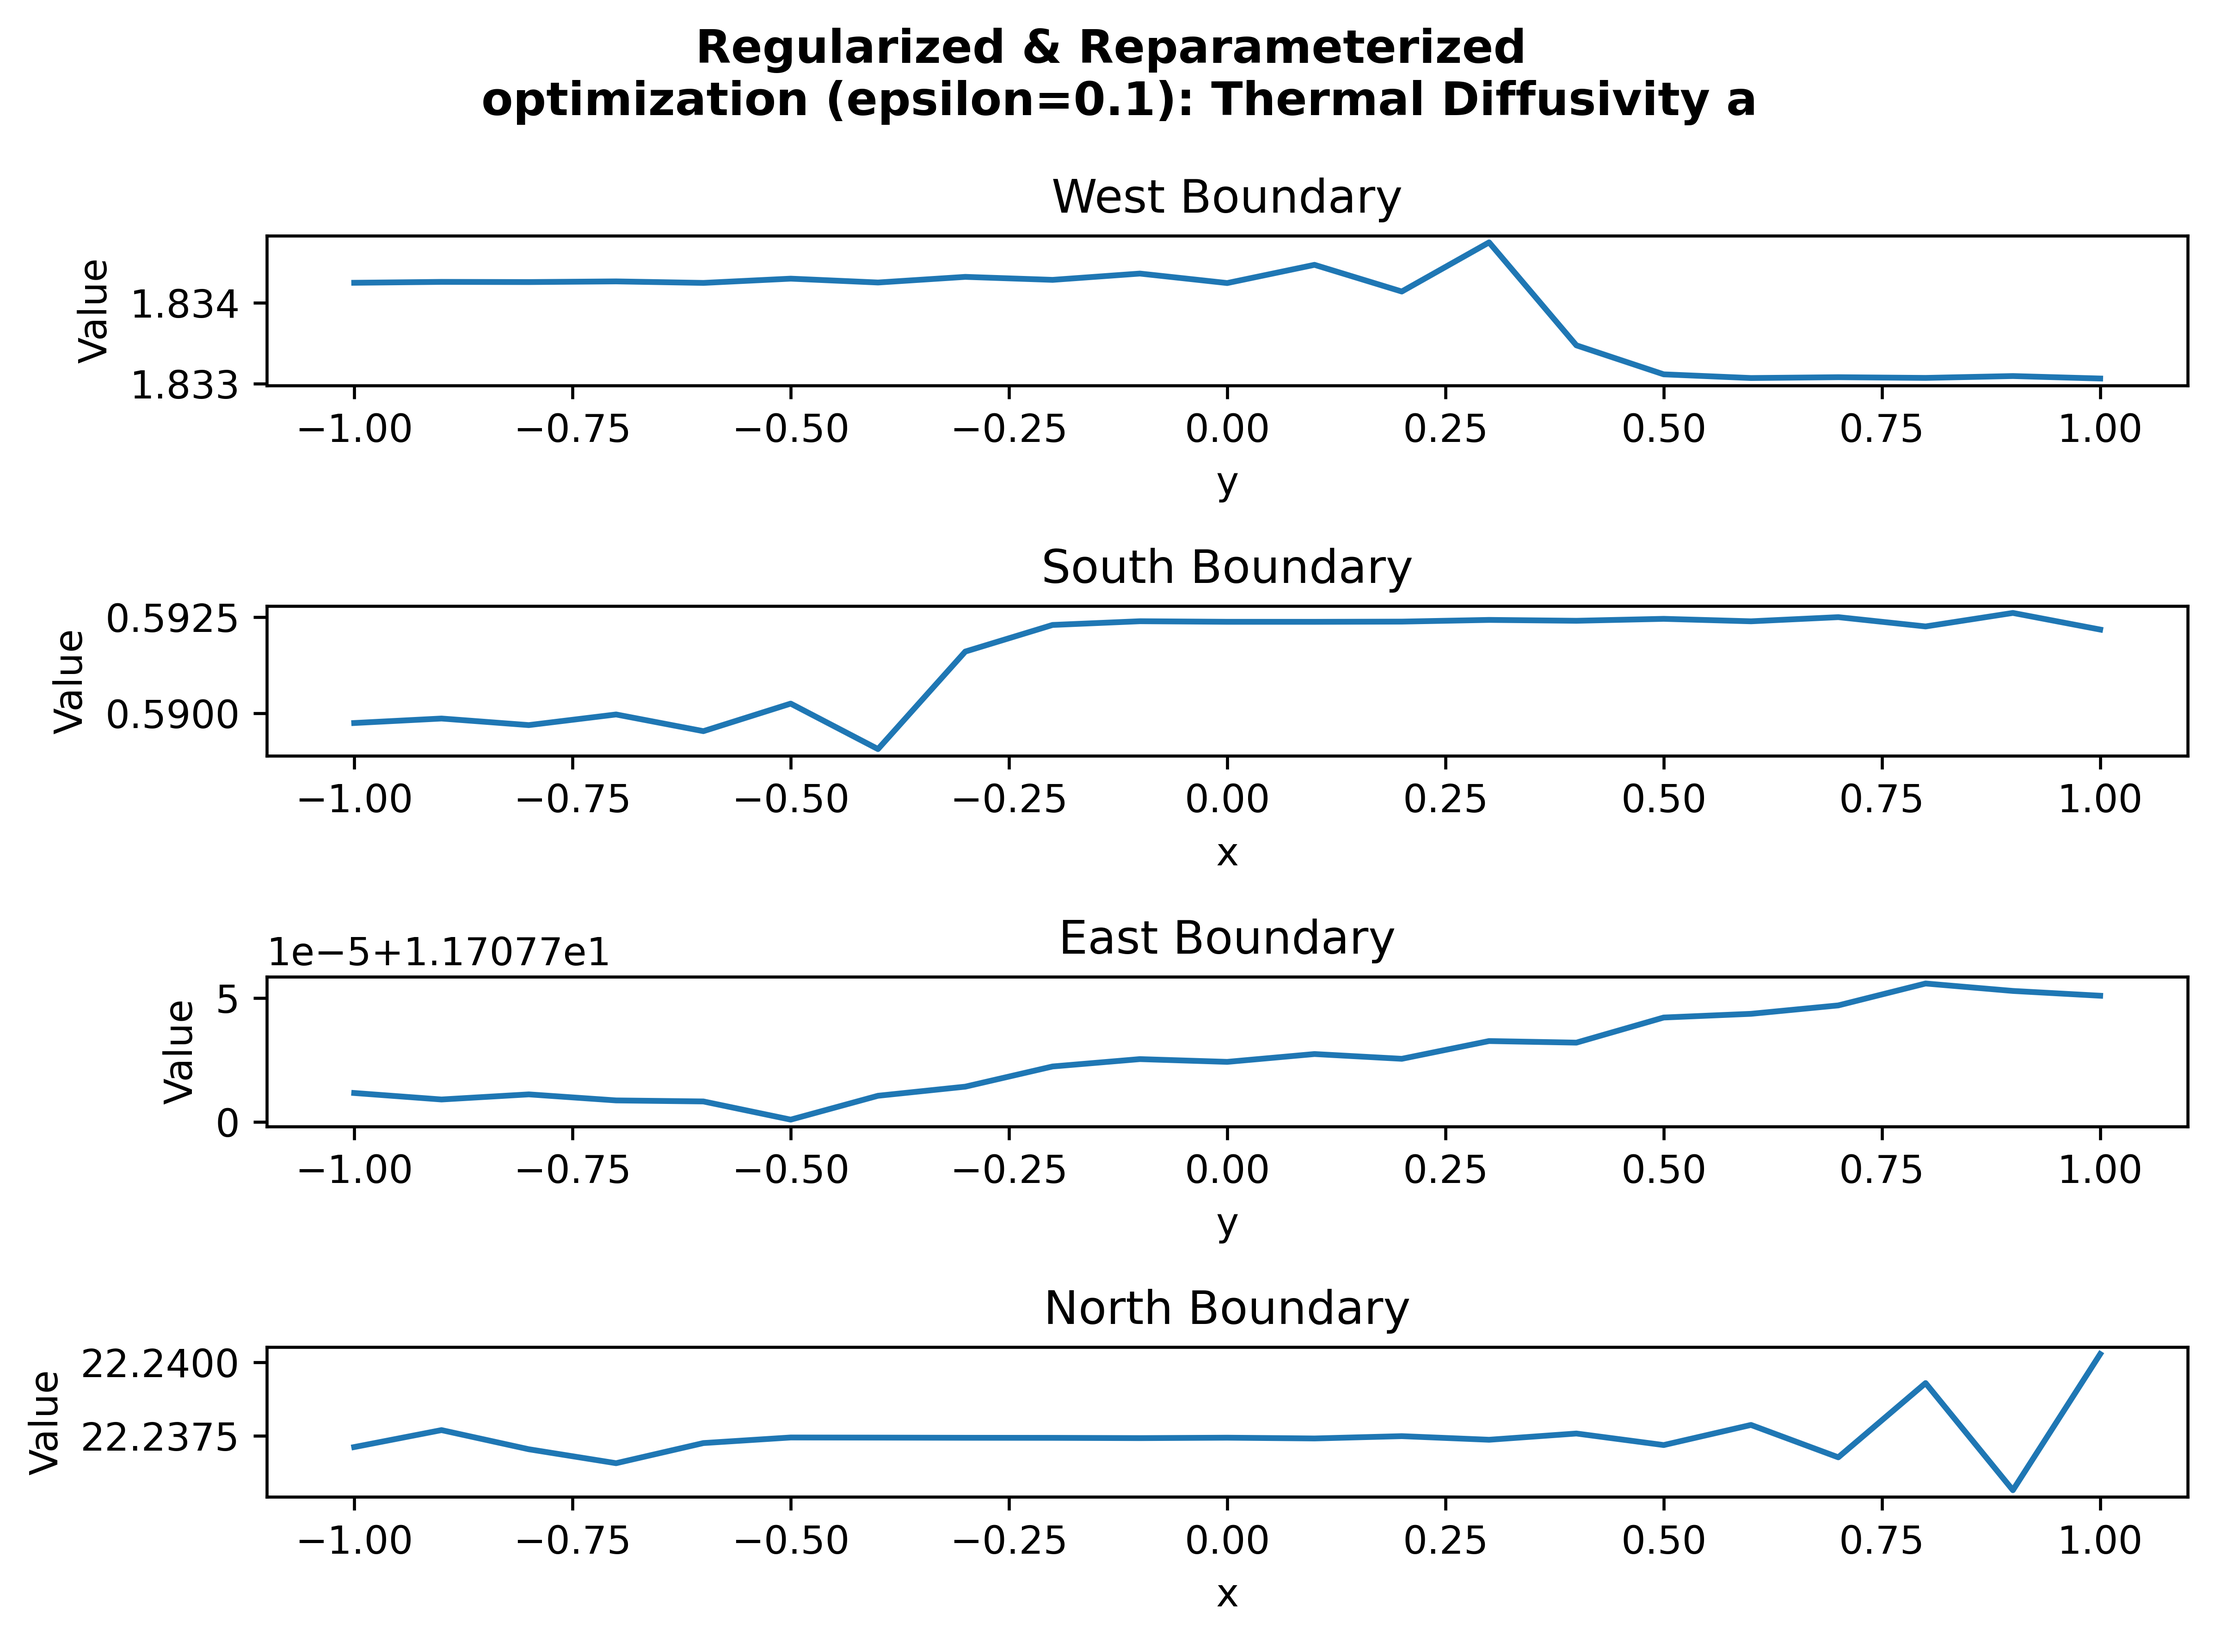
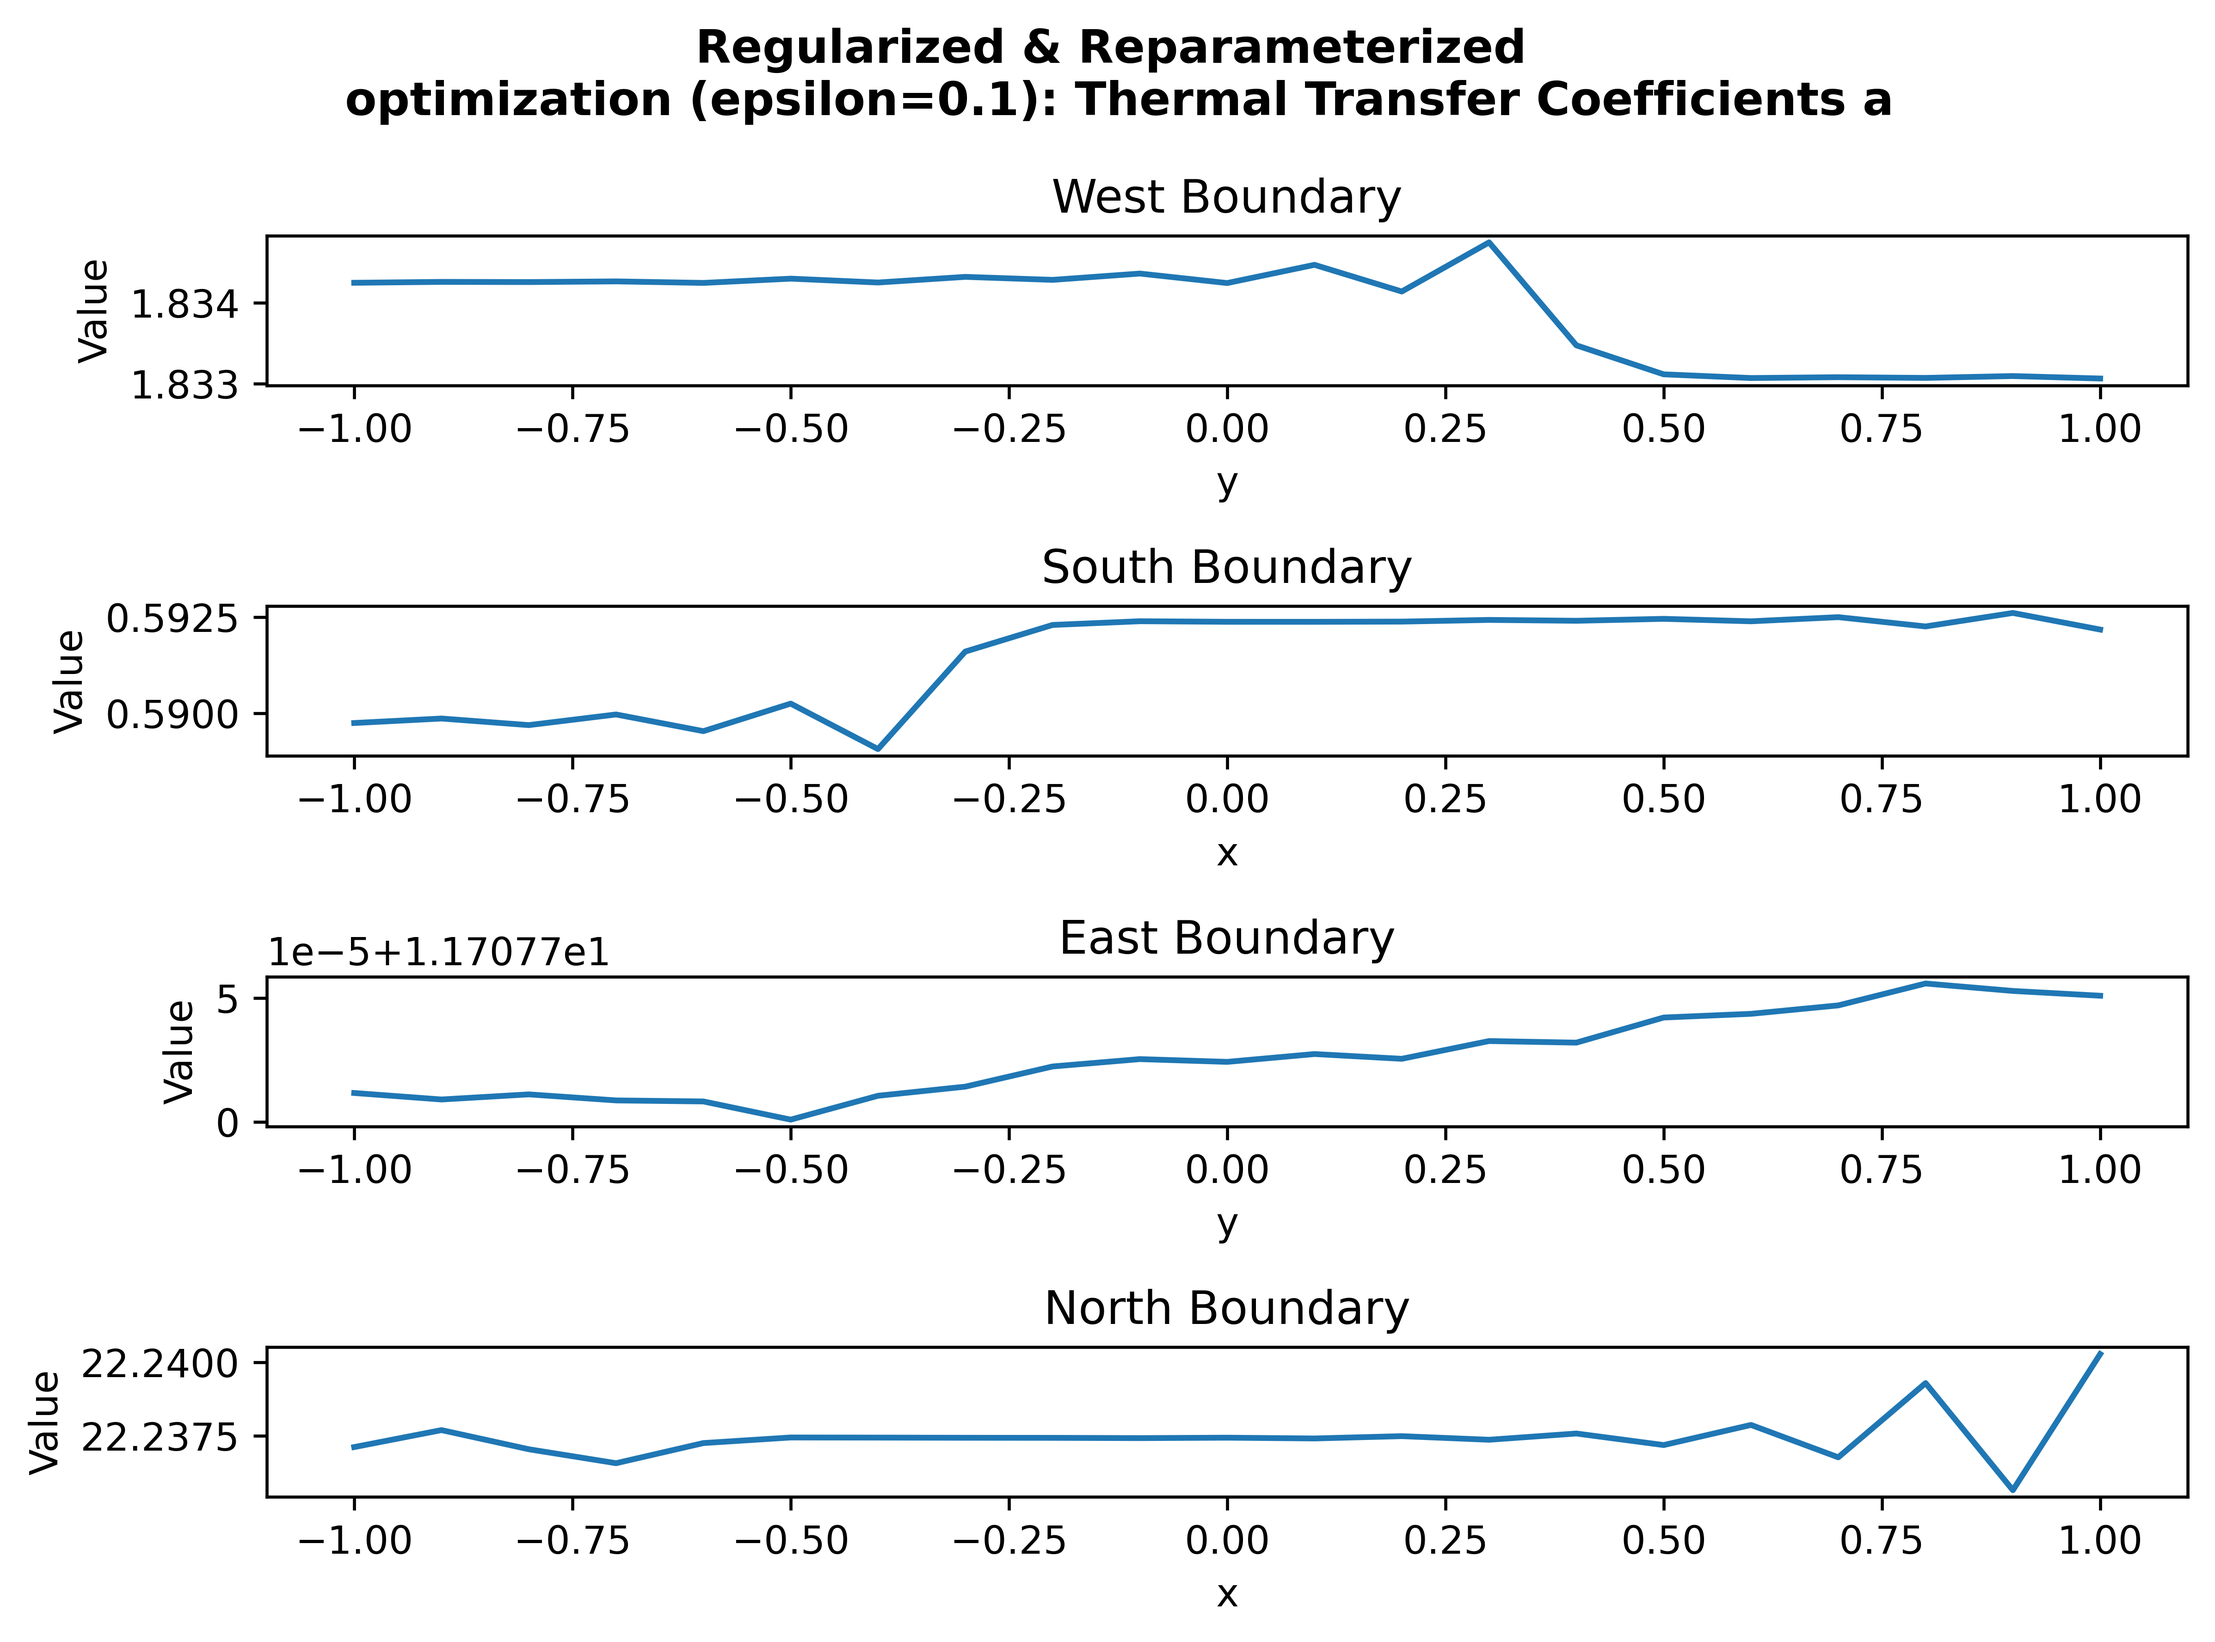
fixa bilder

Changed region(s): [[0.1555, 0.0312, 0.8399, 0.0938]]

diff --git a/Project/Part1/part1.py b/Project/Part1/part1.py
@@ -91,7 +91,7 @@ def cost(a, y_d):
     Compute the loss function J(a) = ||y(a) - y_d||^2.
 
     Parameters:
-    - a: Thermal diffusivity coefficients (array of shape (4*N,))
+    - a: Thermal transfer coefficients (array of shape (4*N,))
     - y_d: Observed data (array of shape (N,))
     - sbp_ops: Dictionary containing SBP operators and solver
 
@@ -115,7 +115,7 @@ def FD_gradient(a, y_d, delta=1e-6):
     Compute the gradient of the loss function J(a) with respect to a using finite differences.
 
     Parameters:
-    - a: Thermal diffusivity coefficients (array of shape (4*N,))
+    - a: Thermal transfer coefficients (array of shape (4*N,))
     - y_d: Observed data (array of shape (N,))
     - sbp_ops: Dictionary containing SBP operators and solver
 
@@ -143,7 +143,7 @@ def adjoint_gradient(a, y_d):
     Compute the gradient of the loss function J(a) with respect to a using the adjoint method.
 
     Parameters:
-    - a: Thermal diffusivity coefficients (array of shape (4*N,))
+    - a: Thermal transfer coefficients (array of shape (4*N,))
     - y_d: Observed data (array of shape (N,))
     - sbp_ops: Dictionary containing SBP operators and solver
 
@@ -251,7 +251,7 @@ def investigate_optimization(
     y_solution = sbp_ops["poisson_solver"](u)
 
     # Plot a solution
-    plot_boundary_values([a_solution], title=f"{title} Thermal Diffusivity a")
+    plot_boundary_values([a_solution], title=f"{title} Thermal Transfer Coefficients a")
     plt.savefig(figures_path / f"{filename}_a.png", dpi=600, bbox_inches="tight")
 
     # Plot y solution
@@ -305,7 +305,7 @@ def initial_minimization():
 
 def reparametrization(a, a0=1e-6, variable_out="a"):
     """
-    Reparameterize the thermal diffusivity coefficients a to ensure positivity.
+    Reparameterize the thermal transfer coefficients a to ensure positivity.
     """
     if variable_out == "a":
         return a0 + a**2
@@ -582,8 +582,10 @@ if __name__ == "__main__":
 
     #### Regularization ####
     # investigate_reg_gradients()
-
-    result_reg = regularized_minimization(epsilon=1e2, gamma=1e-6)
+    # for epsilon in [1e-5, 1e-3, 1e-1]:
+    #     print(f"Running regularized minimization with epsilon={epsilon}")
+    #     result_reg = regularized_minimization(epsilon=epsilon, gamma=1e-6)
+    regularized_minimization(epsilon=1e-1, gamma=1e-6)
 
     epsilon_values = np.logspace(-8, 1.5, 20)
     # sweep_epsilon_values(epsilon_values, gamma=1e-6)
